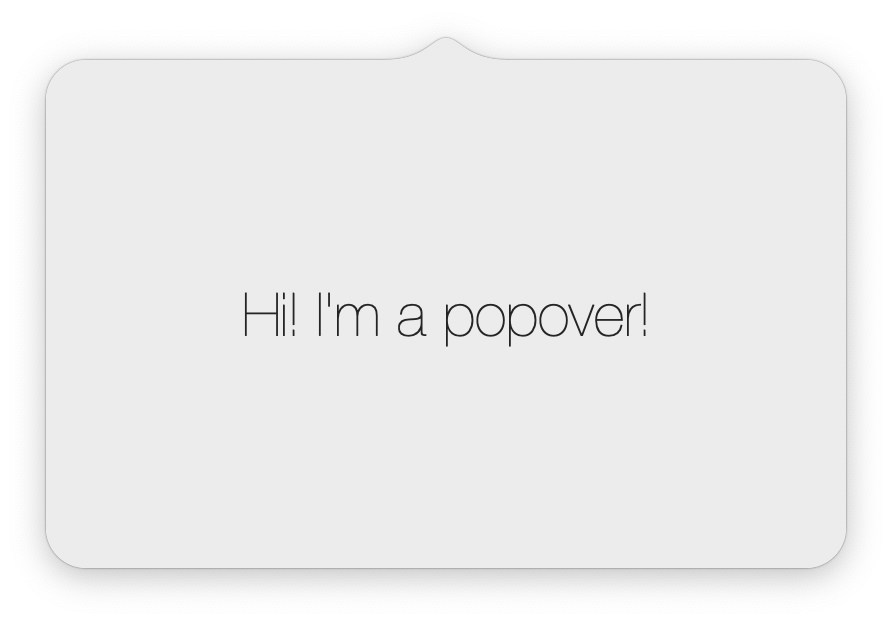
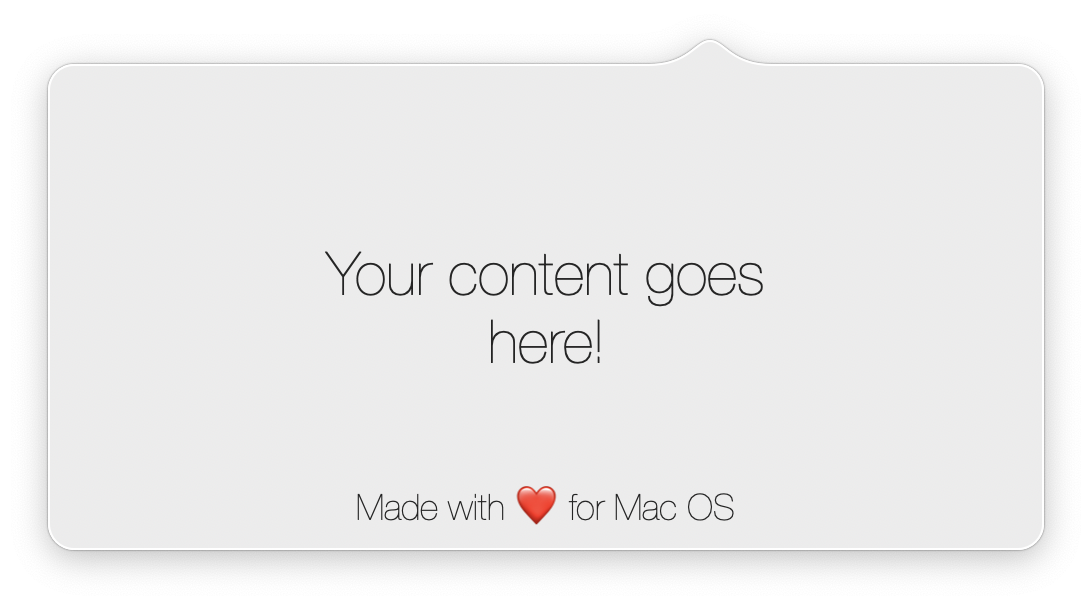
Readme

diff --git a/README.md b/README.md
@@ -1,6 +1,74 @@
 # Popover
 
-Mac OS custom popover. Made with ❤
+Mac OS custom popover.
 ![alt text](popover.png "Popover")
+
+# Install
+
+Since this is a Swift Package, the installation process is pretty stright forward.
+
+### Manual way
+Update your `Package.swift` dependencies:
+
+```
+dependencies: [
+    .package(url: "https://github.com/iSapozhnik/Popover", from: "1.0.8")
+]
+```
+
+### Via Xcode:
+1. Go to `File -> Swift Packages -> Add Package Dependency`. 
+2. Put GitHub URL `https://github.com/iSapozhnik/Popover` and click `Next`
+3. Select the latest version
+4. Click `Finish`
+
+# How to use
+
+1. In your `AppDelegate` import Popover
+2. Create a view you want to put into a status bar.
+3. Create a content view controller which would be embedded inside Popover
+4. Optionally create menu items
+5. Create a Popover instance. Here you can use either standard configuration (you don't need to pass `windowConfiguration` parameter in this case) or you can subclass `DefaultConfiguration`, override some properties and pass a new instance as a parameter. If in ste 4 you have created menu items, pass it here as well.
+6. Call `prepare` to set everything up.
+
+And here is how typical `AppDelegate` may look like:
+
+```swift
+import Cocoa
+import Popover
+
+class MyPopoverConfiguration: DefaultConfiguration {
+    override var backgroundColor: NSColor {
+        return NSColor.systemRed
+    }
+
+    override var borderColor: NSColor? {
+        return NSColor.red
+    }
+}
+
+@NSApplicationMain
+class AppDelegate: NSObject, NSApplicationDelegate {
+    var popover: Popover!
+
+    func applicationDidFinishLaunching(_ aNotification: Notification) {
+        let statusItemView = StatusItemView(frame: NSRect(width: 22.0, height: 20))
+
+        let viewController = MainViewController()
+
+        let menuItems: [Popover.MenuItemType] = [
+            .item(Popover.MenuItem(title: "Settings", action: viewController.showSettings)),
+            .separator,
+            .item(Popover.MenuItem(title: "Quit", key: "q", action: viewController.quit))
+        ]
+
+        popover = Popover(with: MyPopoverConfiguration(), menuItems: menuItems)
+        popover.prepare(with: statusItemView, contentViewController: viewController)
+    }
+}
+
+```
+ 
+
 
 Heavily inspired by [CCNStatusItem](https://github.com/phranck/CCNStatusItem)
